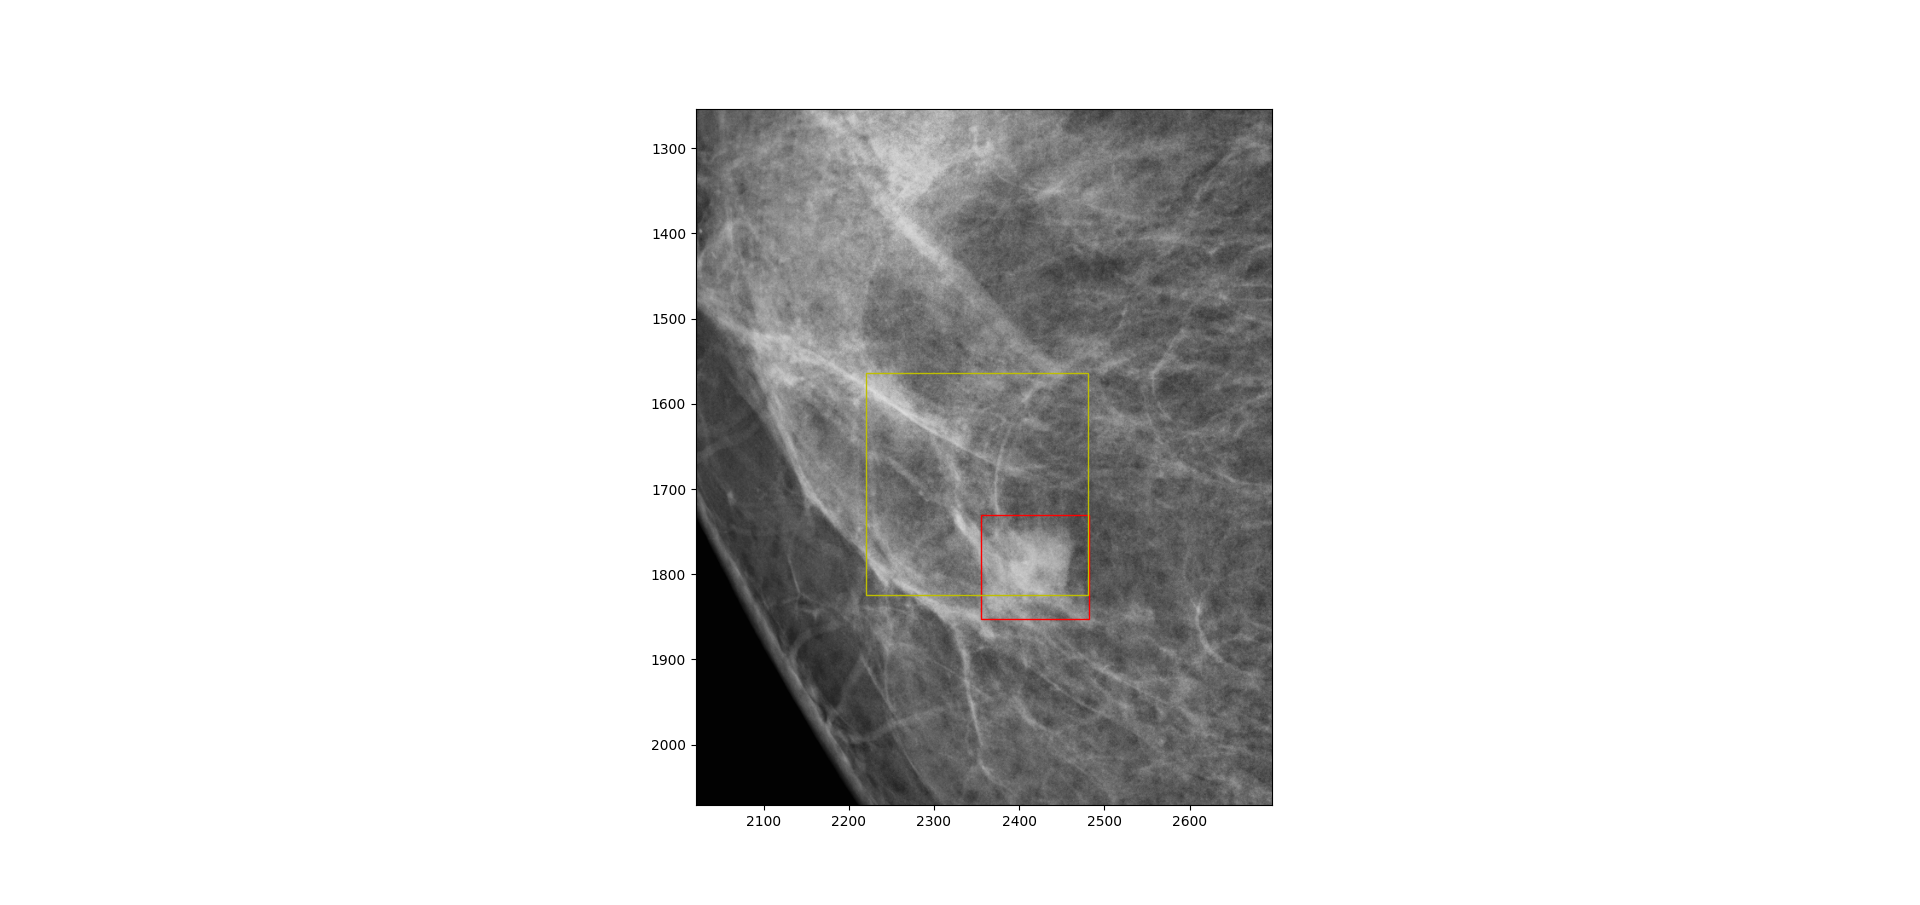
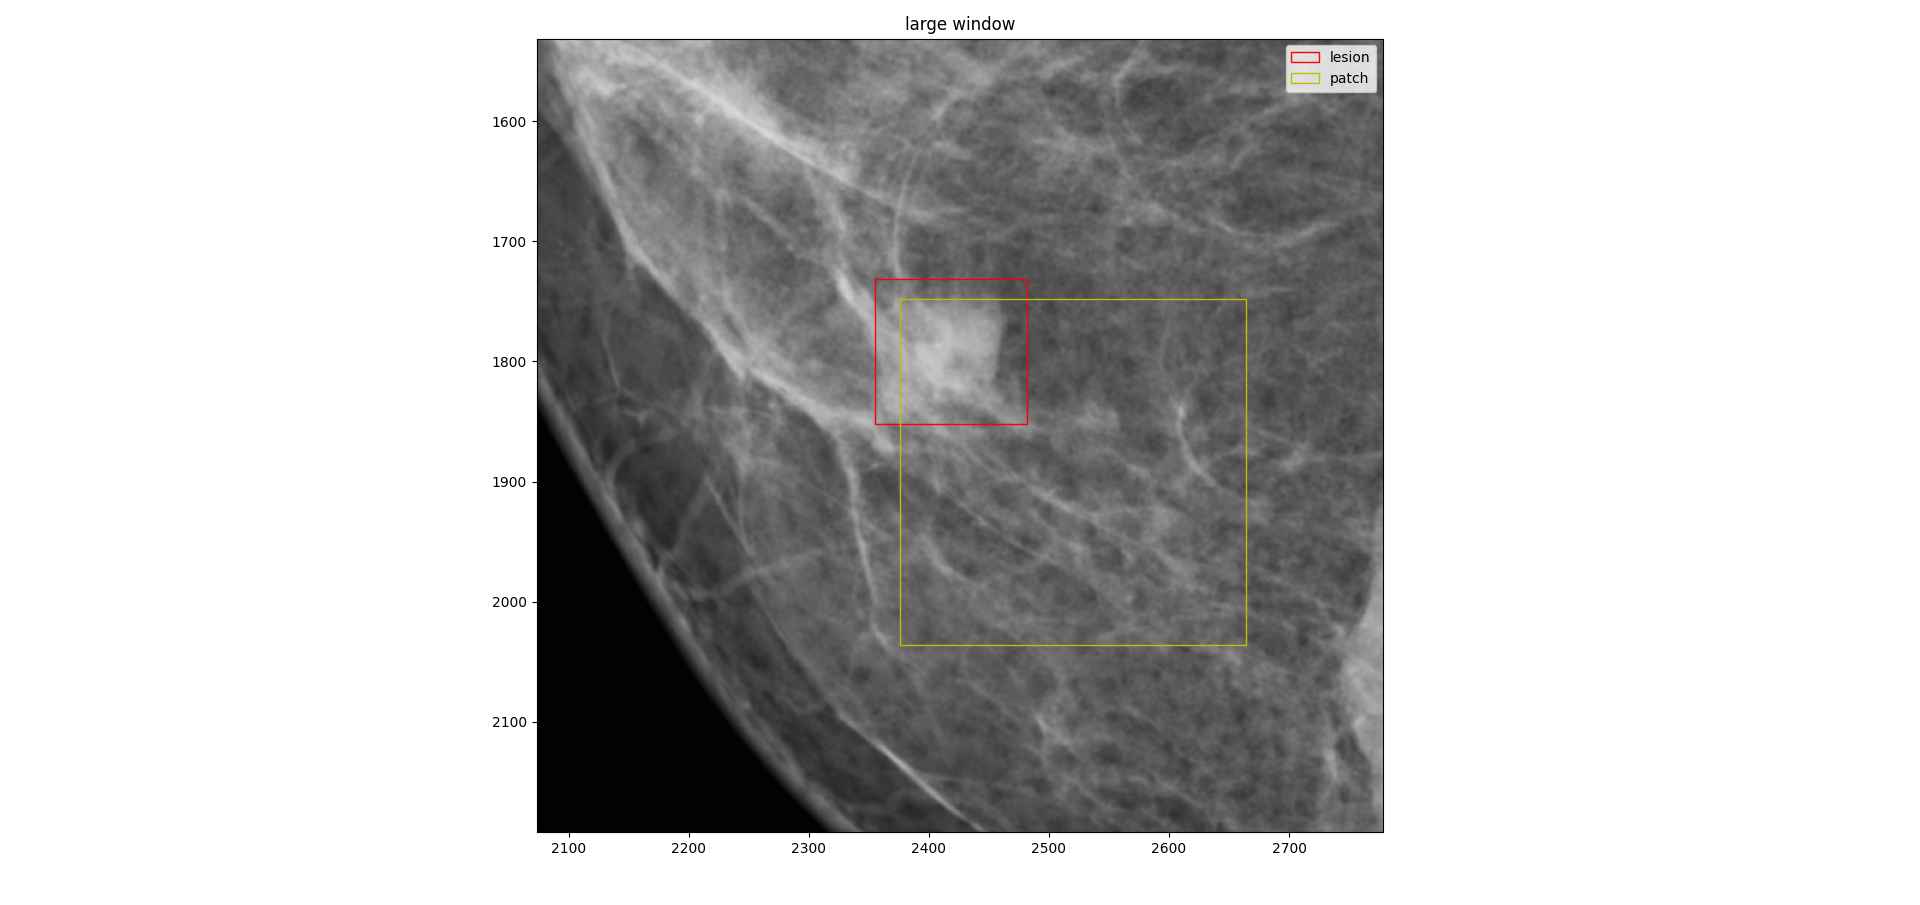
ADD: plotting adjustments

Changed region(s): [[0.25, 0.0, 0.7188, 0.9591]]

diff --git a/create_data.py b/create_data.py
@@ -12,6 +12,7 @@ from tensorflow.keras.utils import to_categorical
 from sklearn.model_selection import train_test_split
 from skimage.util import view_as_windows
 # from seaborn import kdeplot
+from matplotlib import patches
 
 if argv[1] == 'small':
     WINDOW_SIZE = 112
@@ -150,6 +151,9 @@ def clahe(image):
     clahe_blur = cv2.cvtColor(clahe_blur, cv2.COLOR_GRAY2RGB)   
     clahe_noise = cv2.cvtColor(clahe_noise, cv2.COLOR_GRAY2RGB)  
     # plt.figure()
+    # plt.title('Original')
+    # plt.imshow(A_cv2, cmap='gray')
+    # plt.figure()
     # plt.title(f'Noise + CLAHE')
     # plt.imshow(clahe_noise,cmap='gray')
     # plt.figure()
@@ -227,12 +231,15 @@ def random_patch_abnormal(image,list_mass):
         # plt.imshow(image, cmap='gray')
         # xmin, xmax, ymin, ymax = list_mass[0], list_mass[1], list_mass[2], list_mass[3]
         # #the lesion
-        # bounding_box = patches.Rectangle((xmin, ymin), xmax - xmin, ymax - ymin, linewidth=1, edgecolor='r', facecolor='none')
+        # bounding_box = patches.Rectangle((xmin, ymin), xmax - xmin, ymax - ymin, linewidth=1, edgecolor='r', label='lesion',facecolor='none')
         # plt.gca().add_patch(bounding_box)
         # box = patch['box']
         # #the sampled patch
-        # rect = patches.Rectangle((box[0], box[1]), box[2] - box[0], box[3] - box[1], linewidth=1, edgecolor='y', facecolor='none')
+        # rect = patches.Rectangle((box[0], box[1]), box[2] - box[0], box[3] - box[1], linewidth=1, edgecolor='y', label='patch', facecolor='none')
         # plt.gca().add_patch(rect)
+        # plt.tight_layout()
+        # plt.title(f'{argv[1]} window')
+        # plt.legend()
         # plt.show()
 
         if len(saved_patches) > 0:
